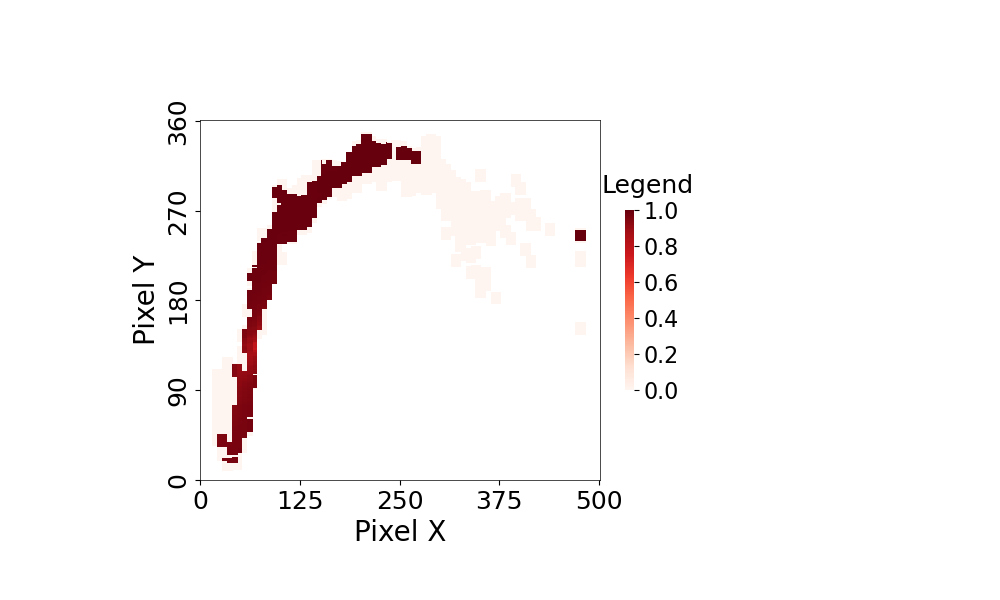
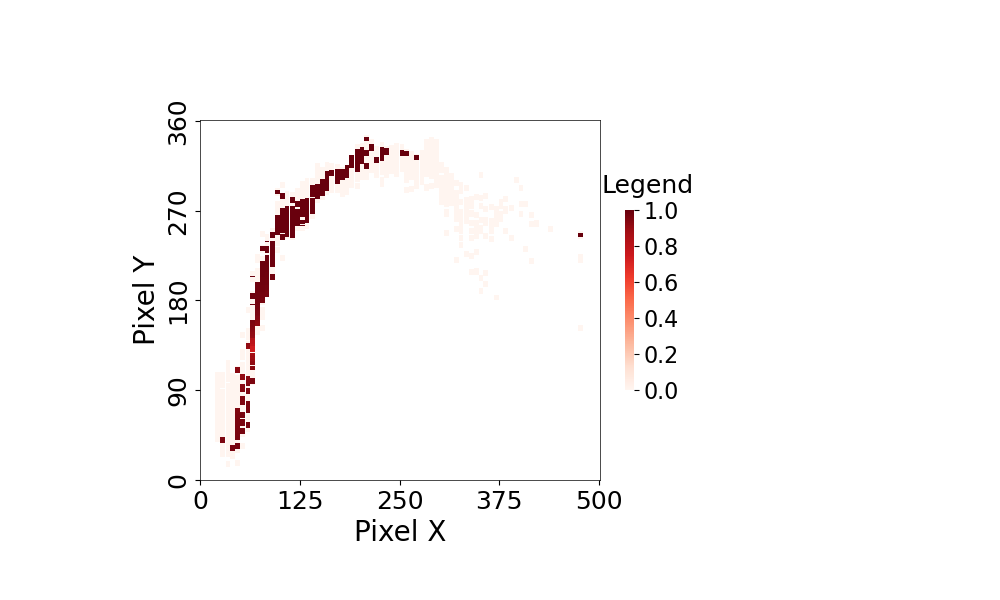
Update test scripts and figures for adult income analysis
Commented out CDM_Metric import in test scripts, adjusted data filtering to focus on 'Own-child' relationship, and reduced marker sizes in scatter plots. Added logic to swap colors for 'Own-child' and 'Husband' in multi-class test. Updated and added related figure files.

Changed region(s): [[0.217, 0.21, 0.434, 0.78], [0.558, 0.39, 0.589, 0.42]]

diff --git a/test_adult_income/adult_multi_class_test.py b/test_adult_income/adult_multi_class_test.py
@@ -4,7 +4,7 @@ sys.path.insert(0, os.path.abspath(os.path.join(os.path.dirname(__file__), '..')
 
 from datasets.generateData import load_and_sample_data, load_data
 from Our_metrics.Scatter_Metrics import Scatter_Metric
-from Compared_metrics.CDM import CDM_Metric
+# from Compared_metrics.CDM import CDM_Metric
 import matplotlib.pyplot as plt
 import matplotlib.pylab as pl
 from datasets.generateData import load_data  # Ensure this module and function are correctly defined
@@ -43,12 +43,14 @@ data = load_data(file_location)  # Make sure load_data is properly defined
 # ['Wife', 'Husband', 'Not-in-family',  'Own-child', 'Unmarried']
 # data_abstract = data[data['Relationship'].isin(['Not-in-family','Other-relative'])]
 data_abstract = data[data['Relationship'].isin(['Own-child', 'Husband'])]
+# data_abstract = data[data['Relationship'].isin(['Own-child'])]
+
 
 
 analysis=Scatter_Metric(data_abstract,
                         margins = {'left':0.2, 'right': 0.7, 'top':0.8, 'bottom': 0.2},
                         marker = 'square', 
-                        marker_size = 100, 
+                        marker_size = 20, 
                         dpi = 100, 
                         color_map='tab10',
                         figsize= (10, 6),
@@ -56,6 +58,13 @@ analysis=Scatter_Metric(data_abstract,
                         yvariable = 'Age_shap',
                         zvariable= 'Relationship'
                         )
+
+# Swap colors so Own-child and Husband use opposite hues compared to the default ordering
+if analysis.color_map_function is not None:
+    if 'Own-child' in analysis.color_map_function and 'Husband' in analysis.color_map_function:
+        husband_color = analysis.color_map_function['Husband']
+        analysis.color_map_function['Husband'] = analysis.color_map_function['Own-child']
+        analysis.color_map_function['Own-child'] = husband_color
 
 
 
@@ -66,6 +75,7 @@ if render_order == 'importance_index':
 elif render_order == 'category_based':
 
     projected_labels = ['Own-child', 'Husband']
+    # projected_labels = ['Husband', 'Own-child']
     analysis._sort_data(attribute = 'Relationship', order = projected_labels)
     analysis.importance_metric(important_cal_method = 'mahalanobis_distance', weight_diff_class=100, weight_same_class=0)
 elif render_order == 'random':

diff --git a/test_adult_income/adult_income_age.py b/test_adult_income/adult_income_age.py
@@ -4,7 +4,7 @@ sys.path.insert(0, os.path.abspath(os.path.join(os.path.dirname(__file__), '..')
 
 from datasets.generateData import load_and_sample_data, load_data
 from Our_metrics.Scatter_Metrics import Scatter_Metric
-from Compared_metrics.CDM import CDM_Metric
+# from Compared_metrics.CDM import CDM_Metric
 import matplotlib.pyplot as plt
 import matplotlib.pylab as pl
 from datasets.generateData import load_data  # Ensure this module and function are correctly defined
@@ -41,13 +41,14 @@ data = load_data(file_location)  # Make sure load_data is properly defined
 
 # ['Wife', 'Husband', 'Not-in-family', 'Other-relative', 'Own-child', 'Unmarried']
 # data_abstract = data[data['Relationship'].isin(['Not-in-family'])]
-data_abstract = data[data['Relationship'].isin(['Own-child', 'Husband'])]
+# data_abstract = data[data['Relationship'].isin(['Own-child', 'Husband'])]
+data_abstract = data[data['Relationship'].isin(['Own-child'])]
 
 
 analysis = Scatter_Metric(data_abstract, 
                           margins = {'left':0.2, 'right': 0.7, 'top':0.8, 'bottom': 0.2},
                         marker = 'square', 
-                        marker_size = 50, 
+                        marker_size = 10, 
                         dpi = 100, 
                         figsize= (10, 6),
                         xvariable = 'Age', 
